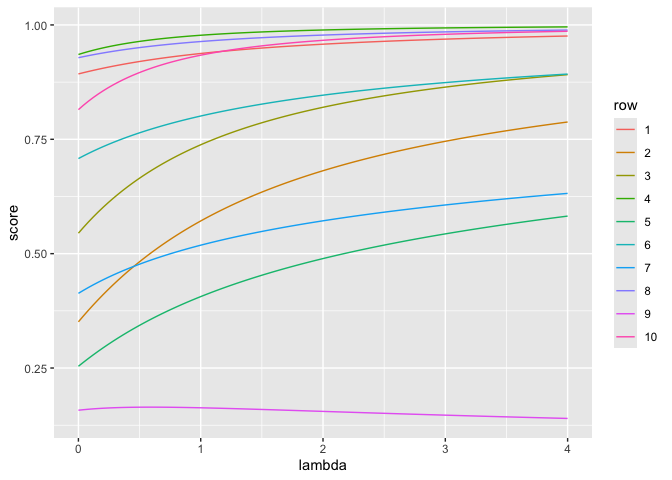
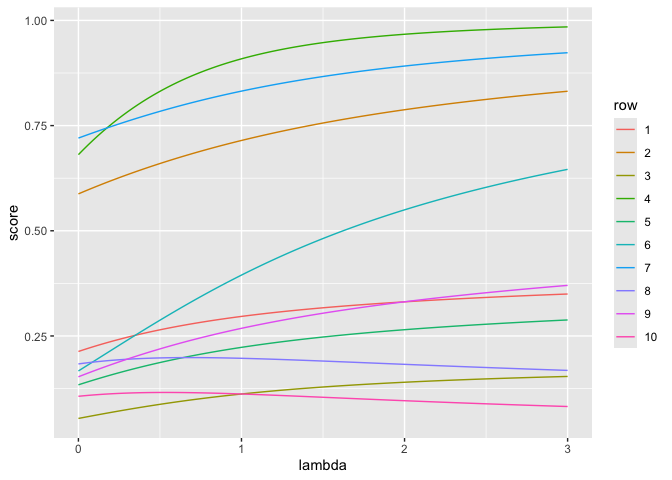
shring example

diff --git a/rebalance/traj_graph_2.md b/rebalance/traj_graph_2.md
@@ -45,7 +45,7 @@ d_ex <- wrapr::build_frame(
 ```
 
 ``` r
-build_traj <- function(d_ex, lambda_max = 4, length.out = 100) {
+build_traj <- function(d_ex, lambda_max = 3, length.out = 100) {
     frame <- list()
     suppressWarnings(
       for(lambda in seq(0, lambda_max, length.out = length.out)) {
@@ -71,7 +71,7 @@ frame <- build_traj(d_ex)
 
 ``` r
 want_frame <- function(frame) {
-  check_eps = 1e-2
+  check_eps = 0.02
   n_f_rows <- nrow(frame)
   have_cross <- FALSE
   have_increasing <- FALSE
@@ -98,11 +98,11 @@ want_frame <- function(frame) {
 
 ``` r
 mk_example <- function() {
-  d_cols <- c('x1', 'x2', 'x3', 'x4', 'y')
+  d_cols <- c('x1', 'x2', 'y')
   n_rows <- 10
   while(TRUE) {
     d_ex <- data.frame(matrix(
-      sample(seq(-5, 5), size = length(d_cols) * n_rows, replace = TRUE),
+      sample(seq(-10, 10), size = length(d_cols) * n_rows, replace = TRUE),
       ncol=length(d_cols)))
     colnames(d_ex) <- d_cols
     d_ex['y'] = d_ex['y'] >= 0
@@ -123,34 +123,34 @@ cat(wrapr::draw_frame(d_ex))
 ```
 
     ## d_ex <- wrapr::build_frame(
-    ##    "x1"  , "x2", "x3", "x4", "y"   |
-    ##      -4L ,  4L ,  0L , -2L , TRUE  |
-    ##       3L , -5L , -1L , -1L , TRUE  |
-    ##       1L , -3L , -1L , -3L , TRUE  |
-    ##      -5L , -2L , -3L , -5L , TRUE  |
-    ##       4L , -3L ,  1L , -5L , FALSE |
-    ##      -1L ,  3L ,  2L , -3L , TRUE  |
-    ##       2L ,  2L , -2L , -2L , FALSE |
-    ##      -5L ,  3L , -3L ,  5L , TRUE  |
-    ##       5L ,  5L , -1L , -1L , FALSE |
-    ##      -2L , -5L ,  2L , -4L , FALSE )
+    ##    "x1"  , "x2", "y"   |
+    ##       4L ,  4L , FALSE |
+    ##      -4L ,  6L , TRUE  |
+    ##      10L , -5L , FALSE |
+    ##      -9L , -8L , FALSE |
+    ##       6L ,  0L , FALSE |
+    ##       3L , -8L , TRUE  |
+    ##      -7L ,  6L , TRUE  |
+    ##       6L ,  9L , FALSE |
+    ##       5L , -1L , FALSE |
+    ##       9L ,  8L , FALSE )
 
 ``` r
 knitr::kable(d_ex)
 ```
 
-|  x1 |  x2 |  x3 |  x4 | y     |
-|----:|----:|----:|----:|:------|
-|  -4 |   4 |   0 |  -2 | TRUE  |
-|   3 |  -5 |  -1 |  -1 | TRUE  |
-|   1 |  -3 |  -1 |  -3 | TRUE  |
-|  -5 |  -2 |  -3 |  -5 | TRUE  |
-|   4 |  -3 |   1 |  -5 | FALSE |
-|  -1 |   3 |   2 |  -3 | TRUE  |
-|   2 |   2 |  -2 |  -2 | FALSE |
-|  -5 |   3 |  -3 |   5 | TRUE  |
-|   5 |   5 |  -1 |  -1 | FALSE |
-|  -2 |  -5 |   2 |  -4 | FALSE |
+|  x1 |  x2 | y     |
+|----:|----:|:------|
+|   4 |   4 | FALSE |
+|  -4 |   6 | TRUE  |
+|  10 |  -5 | FALSE |
+|  -9 |  -8 | FALSE |
+|   6 |   0 | FALSE |
+|   3 |  -8 | TRUE  |
+|  -7 |   6 | TRUE  |
+|   6 |   9 | FALSE |
+|   5 |  -1 | FALSE |
+|   9 |   8 | FALSE |
 
 ``` r
 frame <- build_traj(d_ex)
